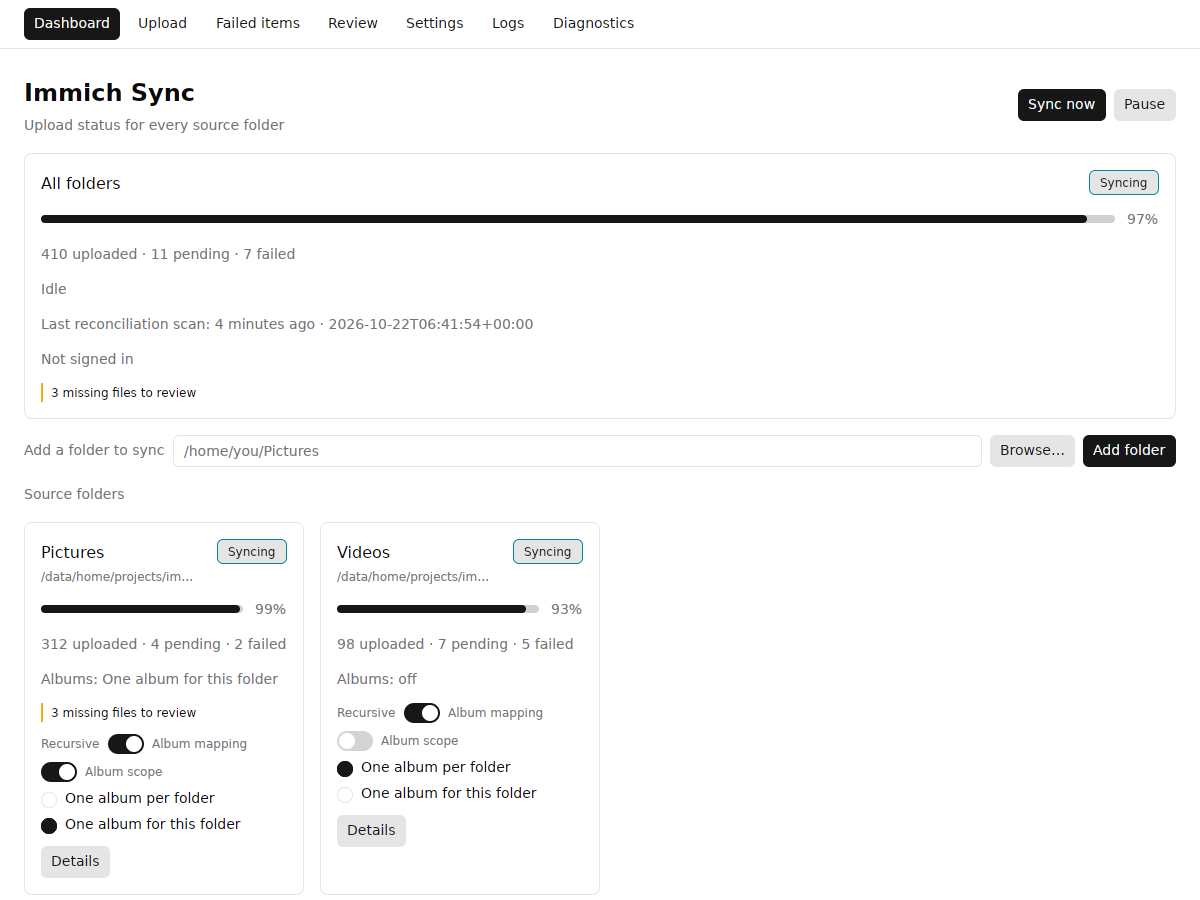
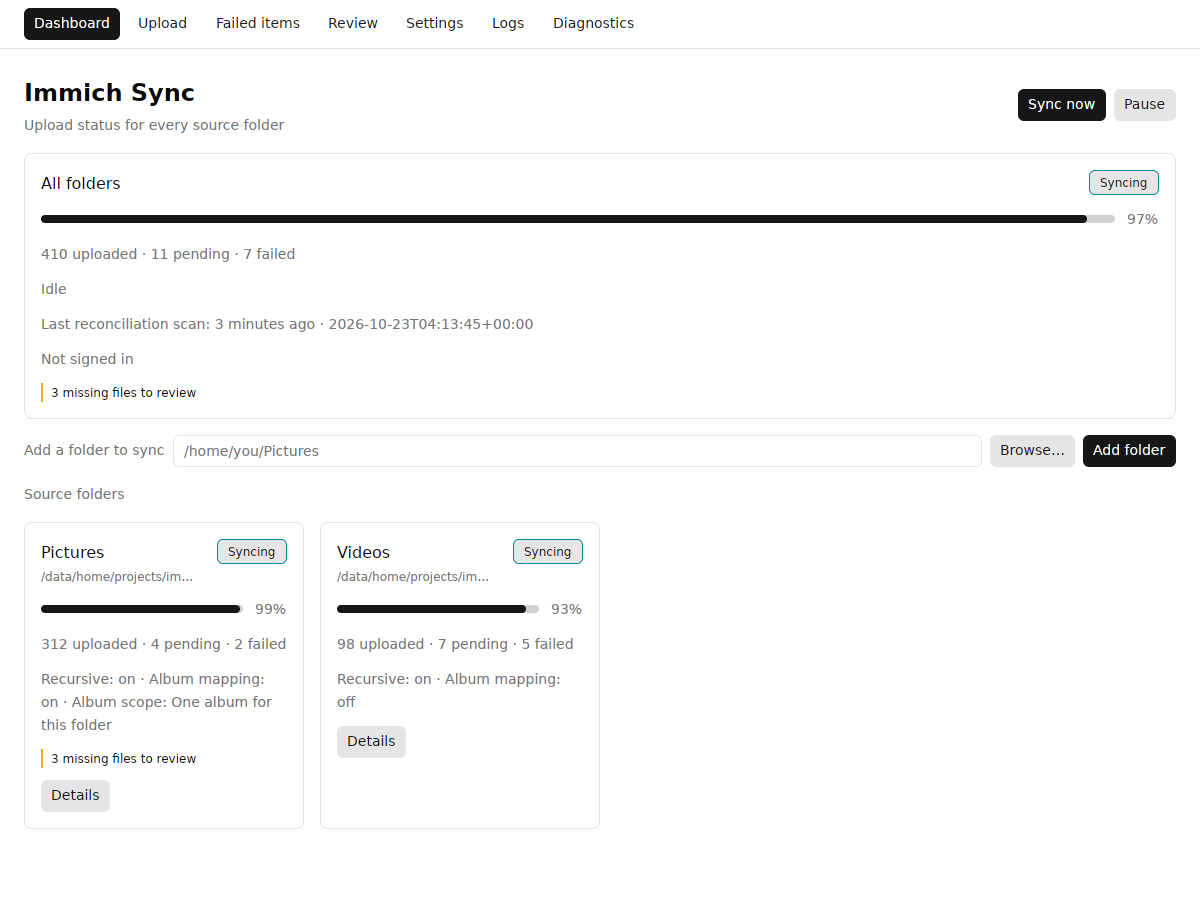
docs: refresh the dashboard screenshot for the read-only card (#57)
The card now states the folder's recursion, album mapping, and scope in one meta line, so the old capture of the switches is stale.

The recipe also needed xdotool (it uses xdotool but never installed it) and wrote ../docs/screenshot.png from the repo root, which lands outside the repo; both are corrected. The seed comment still described the old controls.

Changed region(s): [[0.0308, 0.7467, 0.2467, 0.9956], [0.2775, 0.7467, 0.4625, 0.9644], [0.37, 0.3422, 0.4008, 0.3733]]

diff --git a/crates/app/tests/screenshot_seed.rs b/crates/app/tests/screenshot_seed.rs
@@ -92,7 +92,7 @@ fn seed_capture_state() {
                 path: folder.display().to_string(),
                 recursive: true,
                 // R3.4: the capture shows one mapped and one unmapped folder, so
-                // the album scope controls are visible in both states.
+                // the card states the album scope and the mapping-off form.
                 album_mapping,
                 album_scope: if album_mapping {
                     AlbumScope::WholeFolder

diff --git a/CONTRIBUTING.md b/CONTRIBUTING.md
@@ -28,7 +28,7 @@ sudo apt-get install -y \
 For the headless window tests and screenshots, add:
 
 ```sh
-sudo apt-get install -y xvfb xauth dbus-daemon imagemagick x11-utils
+sudo apt-get install -y xvfb xauth dbus-daemon imagemagick x11-utils xdotool
 ```
 
 On Windows, use the MSVC Rust toolchain with the Visual Studio C++ build tools.
@@ -122,7 +122,7 @@ dbus-run-session -- xvfb-run -a -s "-screen 0 1440x1000x24" bash -c '
   # screen; at the origin the whole frame is captured.
   xdotool windowmove "$WIN" 0 0
   sleep 3
-  import -window "$WIN" ../docs/screenshot.png
+  import -window "$WIN" docs/screenshot.png
   kill $APP
 '
 ```
